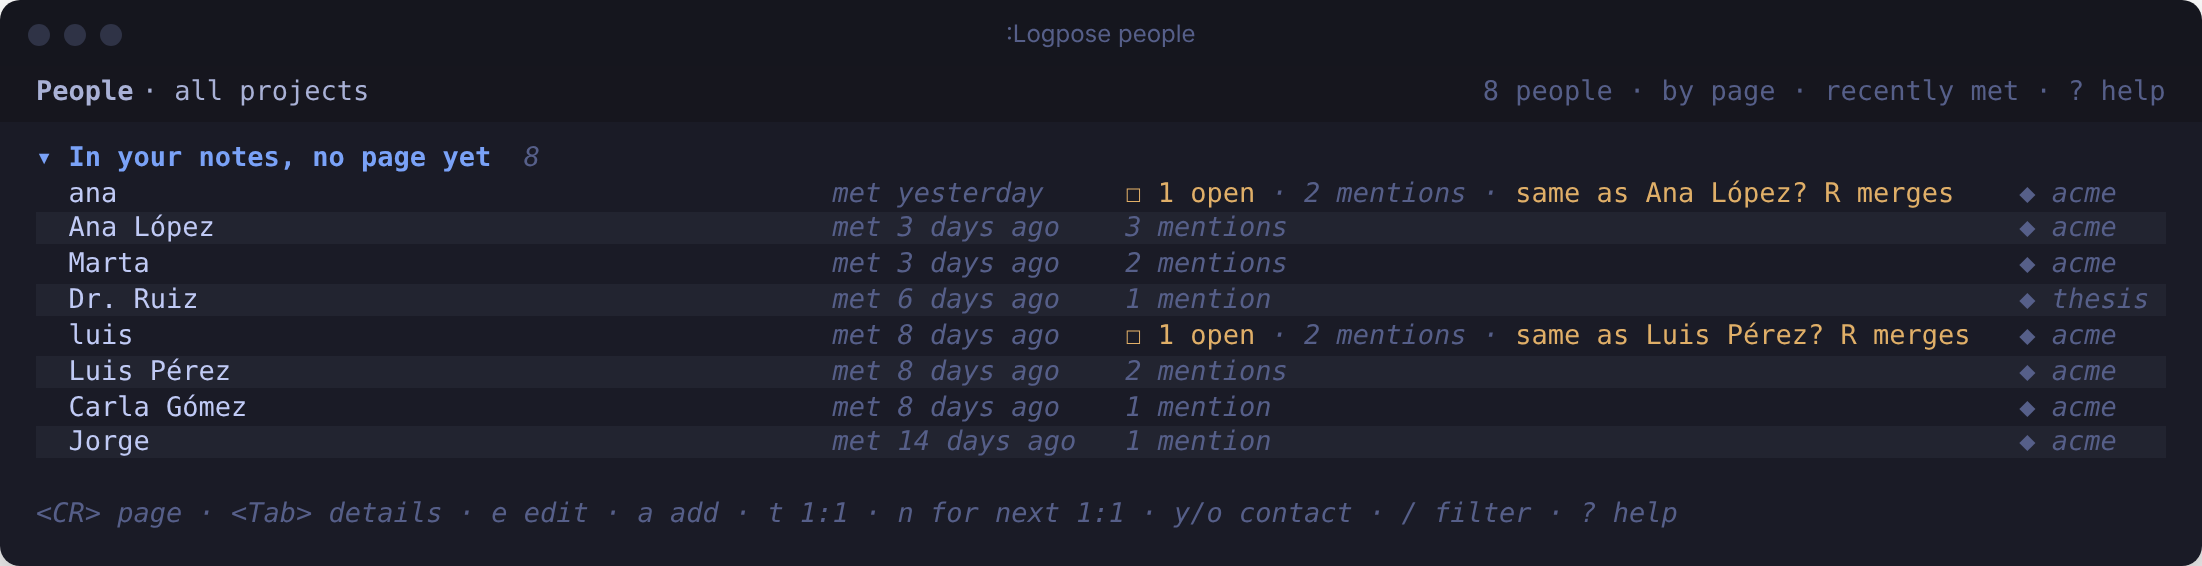
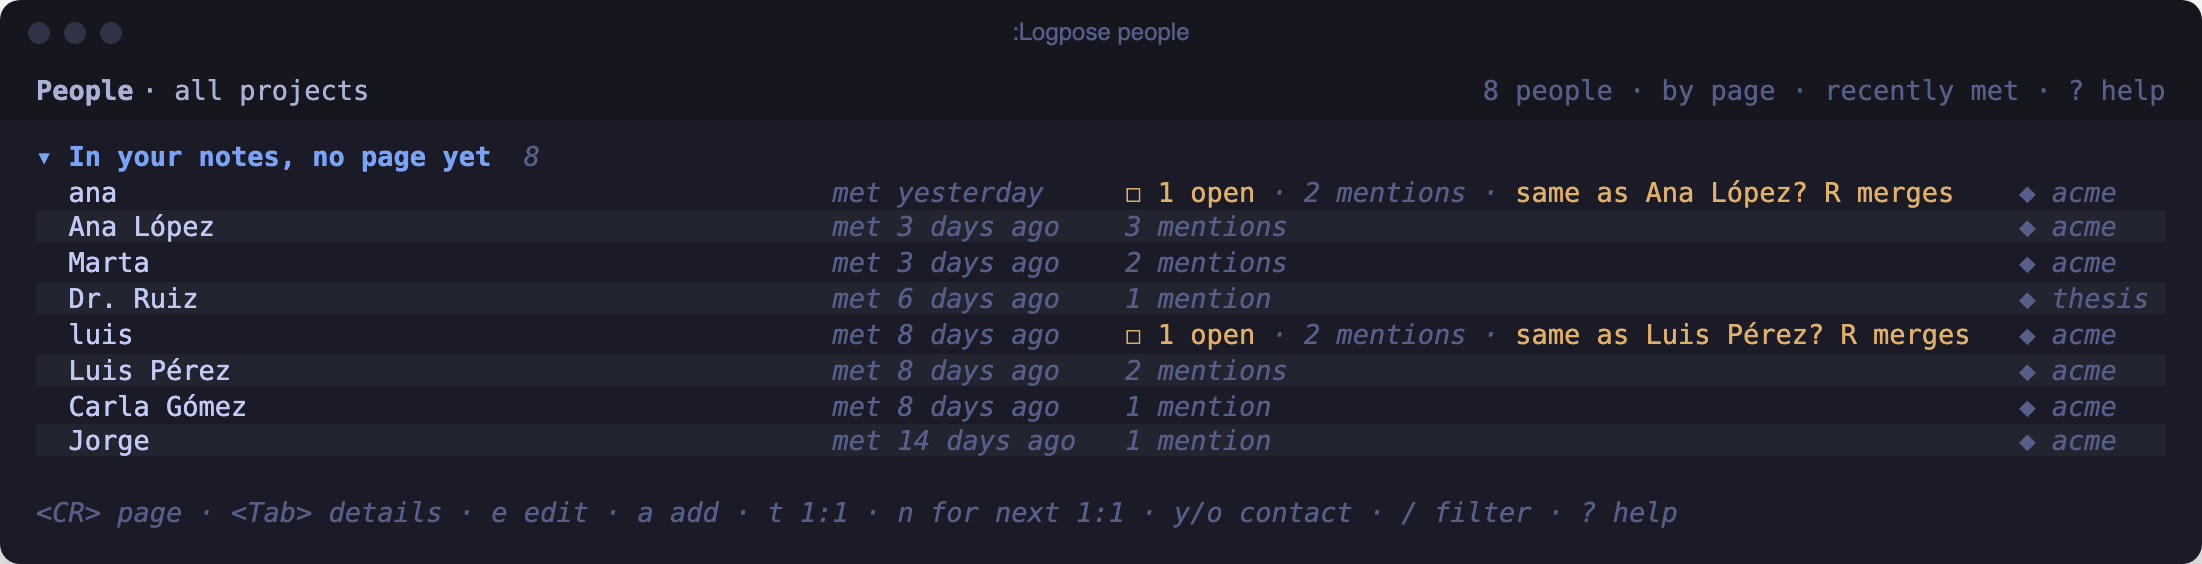
docs: regenerate the screenshots

diff --git a/README.md b/README.md
@@ -425,7 +425,7 @@ with that title exists, the write-up is added to its end. On a to-do inside a ta
 
 ![The notes list: a topic note and two project pages, grouped by type, with linked tasks, projects and tags](docs/images/notes.png)
 
-![The people list: names, roles, how to reach them, when you last met, open to-dos and projects, in banded rows across the window](docs/images/people.png)
+![The people list: everyone your notes mention, when you last met them, their open to-dos and projects, and a hint to merge a first name into a full one, in banded rows across the window](docs/images/people.png)
 
 Each is a list grouped under headings, newest or most relevant first, with what matters at a
 glance. Rows are laid out as a table across the window: the title (or name) takes the room, the
